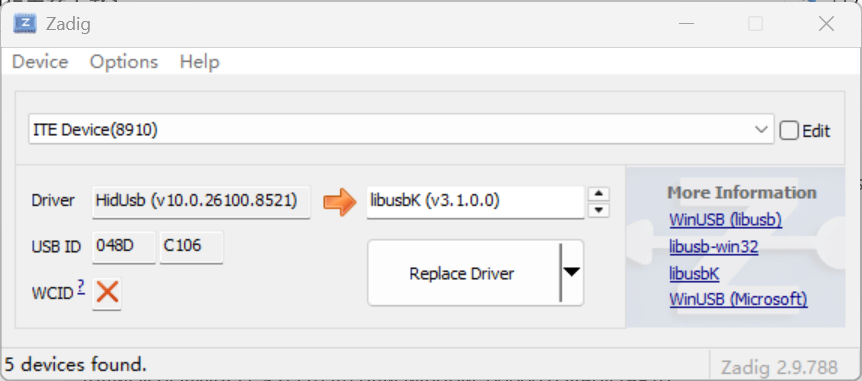
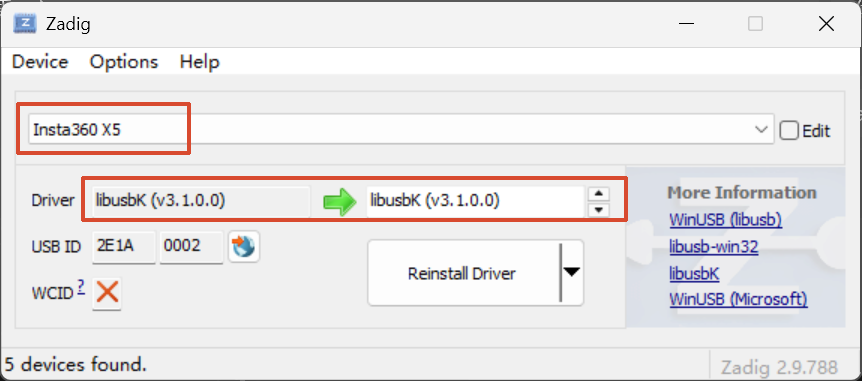
fix[修复相关问题]

diff --git a/README.md b/README.md
@@ -38,7 +38,7 @@ libs
 1. 使用Zadig安装驱动
 ![Zadig安装图](./docs/zadig.png)
 
-2. Insta x4 air SDK 使用
+2. Insta X5 SDK 使用
 
 实现路径：
 